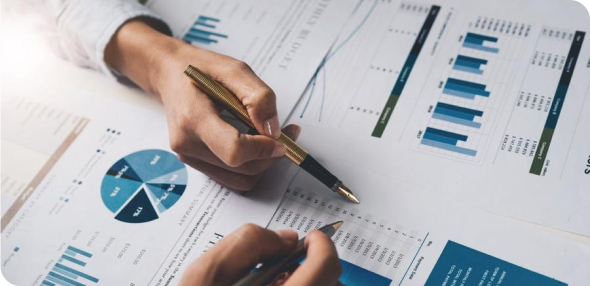
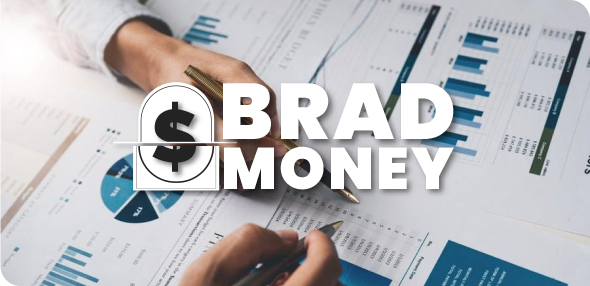
Screen registrer, styles, checkbox and routes

Changed region(s): [[0.2136, 0.2797, 0.7932, 0.6993]]

diff --git a/src/app/pages/register/register.component.scss b/src/app/pages/register/register.component.scss
@@ -1,0 +1,155 @@
+@use '../../../scss/variables';
+
+.left-content {
+    display: flex;
+    flex: 1;
+
+    flex-direction: column;
+    padding: 2.5rem;
+    text-align: left;
+    background-color: white;
+
+    h1 {
+        font-weight: 900;
+        font-size: 2.5rem;
+        color: variables.$gray-600;
+        padding-bottom: 15px;
+    }
+
+    p {
+        padding-top: 15px;
+        color: variables.$gray-300;
+    }
+
+    .checkbox {
+        color: variables.$gray-300;
+    }
+
+    .paddTop {
+        padding-top: 2rem;
+    }
+
+    small {
+        font-size: 0.7em;
+        padding-left: 60%;
+        color: variables.$green-600;
+
+    }
+    small :hover, small :focus{
+        color: variables.$red-600;
+    }
+
+    .inputLogin {
+        width: 95%;
+        height: 40px;
+        border-radius: 4px;
+        border: 1px solid variables.$gray-300;
+        outline-color: variables.$gray-600;
+        margin-top: 18px;
+        padding-left: 10px;
+        color: variables.$gray-600;
+
+    }
+
+    input :focus, input :hover {
+        border-color: variables.$gray-300;
+        color: variables.$gray-300;
+    }
+
+    ::placeholder {
+        color: variables.$gray-300
+    }
+
+    .buttonLogin {
+        width: 45%;
+        border-color: variables.$gray-300;
+    }
+
+    .buttonCancel {
+        width: 45%;
+        margin-left: 22px;
+    }
+
+    .mat-mdc-checkbox.mat-accent {
+        --mdc-checkbox-selected-hover-icon-color:#3AB67D;
+        --mdc-checkbox-selected-focus-icon-color: #3AB67D;
+        --mdc-checkbox-selected-icon-color: #3AB67D;
+        --mdc-checkbox-selected-pressed-icon-color: transparent;
+        --mdc-checkbox-unselected-focus-icon-color: #212121;
+        --mdc-checkbox-unselected-hover-icon-color: #212121;
+        --mdc-checkbox-disabled-selected-icon-color: rgba(0, 0, 0, 0.1);
+        --mdc-checkbox-disabled-unselected-icon-color: rgba(0, 0, 0, 0.1);
+        --mdc-checkbox-unselected-icon-color: rgba(0, 0, 0, 0.1);
+        --mdc-checkbox-unselected-pressed-icon-color: rgba(0, 0, 0, 0.1);
+    }
+
+
+      
+}
+
+.right-content {
+    display: flex;
+    width: 50%;
+    background-image: url(../../../assets/images/background-login.png);
+    background-size: cover;
+    height: 100%;
+
+    h2 {
+        font-weight: 400;
+        font-size: 1.3rem;
+    }
+
+    #itens{
+        align-items: center;
+        text-align: left;
+        color: white;
+        padding: 40% 30%;
+    }
+
+    img {
+        width: 20px;
+    }
+
+    p {
+        padding-top: 20px;
+    }
+
+    span {
+        font-weight: 800;
+    }
+    div .align {
+        display: flex;
+        align-items: center;
+        padding-top: 20px;
+    }
+}
+
+.backGround {
+    height: calc(100% - 240px); 
+
+    &::before {
+        content: '';
+        position: absolute;
+        min-height: 100%;
+        width: 100%;
+        top: 0;
+        background-image: url("../../../assets/images/background.png");
+        z-index: -1;
+    }
+}
+
+.card {
+    display: flex;
+    width: 60%;
+    max-width: 800px;
+    height: 560px;
+    margin: 150px auto 0;
+    align-items: center;
+    text-align: center;
+    position: relative;
+    background-color: white;
+    border-radius: 20px;
+    box-shadow: 5px 5px 40px rgba(172, 176, 202, 0.6);
+    justify-content: space-between;
+    overflow: hidden;
+}

diff --git a/src/app/pages/register/register.component.html b/src/app/pages/register/register.component.html
@@ -1,8 +1,40 @@
-<form (submit)="teste($event)">
-    <label for="name">Nome</label>
-    <input type="text" id="name">
+<app-header></app-header>
+<section class="backGround">
+    <div class="card">
+        <div class="left-content">
+            <h1>REGISTRO</h1>
+            <p>Registre o seu usuário</p>
+            <form>
+                <input class="inputLogin" type="text" placeholder="Usuário" required>
+                <input class="inputLogin" type="password" placeholder="Senha" required>
+                <input class="inputLogin" type="password" placeholder="Confirme sua senha" required>
+                <input class="inputLogin" type="text" placeholder="CPF" required>
+                <br>
+                   <div class="align"><mat-checkbox [(ngModel)]="checked">Eu aceito os termos de uso</mat-checkbox></div>
+            </form>
+            <div class="main-content-buttons">
+                <br>
+                <a [routerLink]="['/login']"><button class="button button-green buttonLogin">REGISTRAR</button></a>
+                <a [routerLink]="['']"><button class="button button-gray buttonCancel">CANCELAR</button></a>
+            </div>
 
-    <label for="email">Email</label>
-    <input type="email" id="name">
-    <button>Enviar</button>
-</form>
+
+        </div>
+        <div class="right-content">
+            <div id="itens">
+                <h2>BENEFÍCIOS DO <br>
+                    <p><span>BRADMONEY</span></p>
+                </h2>
+                <br>
+                <div class="align"><img src="../../../assets/icons/checkmark.svg" alt="Checkmark icon"><span>&nbsp;
+                        Intuítivo</span></div>
+                <div class="align"><img src="../../../assets/icons/checkmark.svg" alt="Checkmark icon"><span>&nbsp;
+                        Confiável</span></div>
+                <div class="align"><img src="../../../assets/icons/checkmark.svg" alt="Checkmark icon"><span>&nbsp;
+                        Completo</span></div>
+                <div class="align"><img src="../../../assets/icons/checkmark.svg" alt="Checkmark icon"><span>&nbsp;
+                        Gratuíto</span></div>
+            </div>
+        </div>
+    </div>
+</section>

diff --git a/src/app/pages/new-password/new-password.component.html b/src/app/pages/new-password/new-password.component.html
@@ -6,13 +6,13 @@
             <p>crie uma nova senha de acesso</p>
 
             <form class="paddTop">
-                <input class="inputLogin" type="text" placeholder="Senha" required>
-                <input class="inputLogin" type="text" placeholder="Confirme sua senha" required>
+                <div class="align"><input class="input" type="text" placeholder="Senha" required><img src="../../../assets/icons/checkmark-full-green.svg" alt="Checkmark icon"></div>
+                <div class="align"><input class="input" type="text" placeholder="Confirme sua senha" required><img src="../../../assets/icons/checkmark-full-red.svg" alt="Checkmark icon"></div>
             </form>
             <br>
             <div class="main-content-buttons paddTop">
-                <button class="button button-green buttonLogin">Cadastre</button>
-                <button class="button button-gray buttonCancel">Cancelar</button>
+                <a  [routerLink]="['/login']"><button class="button button-green buttonLogin">CADASTRE</button></a>
+                <a [routerLink]="['']"><button class="button button-gray buttonCancel">CANCELAR</button></a>
             </div>
 
         </div>

diff --git a/src/app/app.module.ts b/src/app/app.module.ts
@@ -10,7 +10,9 @@ import { HomeComponent } from './pages/home/home.component';
 import { LoginComponent } from './pages/login/login.component';
 import { RegisterComponent } from './pages/register/register.component';
 
-import {MatCardModule} from '@angular/material/card';
+import { MatCardModule } from '@angular/material/card';
+import { FormsModule } from '@angular/forms'; 
+import { MatCheckboxModule } from '@angular/material/checkbox';
 import { SharedModule } from './shared/shared.module';
 import { FeaturesModule } from './features/features.module';
 import { RecoveryComponent } from './pages/recovery/recovery.component';
@@ -33,7 +35,9 @@ import { NewPasswordComponent } from './pages/new-password/new-password.componen
     SharedModule,
     FeaturesModule,
     BrowserAnimationsModule,
-    MatCardModule
+    MatCardModule,
+    MatCheckboxModule,
+    FormsModule
   ],
   providers: [],
   bootstrap: [AppComponent]

diff --git a/src/app/app-routing.module.ts b/src/app/app-routing.module.ts
@@ -5,14 +5,14 @@ import { LoginComponent } from './pages/login/login.component';
 import { RegisterComponent } from './pages/register/register.component';
 import { RecoveryComponent } from './pages/recovery/recovery.component';
 import { NewPasswordComponent } from './pages/new-password/new-password.component';
-import {DashboardHomeComponent} from './features/dashboard/pages/dashboard-home/dashboard-home.component'
+import { DashboardHomeComponent } from './features/dashboard/pages/dashboard-home/dashboard-home.component'
 
 const routes: Routes = [
   {path: '', component: HomeComponent},
   {path: 'login', component: LoginComponent},
   {path: 'recovery', component: RecoveryComponent},
   {path: 'register', component: RegisterComponent},
-  {path: 'newPassword', component: NewPasswordComponent},
+  {path: 'new-password', component: NewPasswordComponent},
   {path: 'dashboard', component: DashboardHomeComponent}
   
 ];

diff --git a/src/app/pages/new-password/new-password.component.scss b/src/app/pages/new-password/new-password.component.scss
@@ -10,7 +10,7 @@
 
     h1 {
         font-weight: 900;
-        font-size: 2rem;
+        font-size: 2.4rem;
         color: variables.$gray-600;
         padding-top: 0.6rem;
     }
@@ -24,8 +24,22 @@
         padding-top: 2rem;
     }
 
-    .inputLogin {
-        width: 65%;
+    .align {
+        display: flex;
+        align-items: center;
+        text-align: center;
+        margin-left: 15%;
+    }
+
+    img {
+        width: 20px;
+        margin-top: 20px;
+        margin-left: -30px;
+        z-index: 99;
+    }
+
+    .input {
+        width: 80%;
         height: 40px;
         border-radius: 4px;
         border: 1px solid variables.$gray-300;
@@ -46,13 +60,15 @@
 
     .buttonLogin {
         width: 30%;
-        border-color: variables.$gray-300;
+
     }
 
     .buttonCancel {
         width: 30%;
         margin-left: 22px;
     }
+
+
 }
 
 .backGround {

diff --git a/src/app/pages/login/login.component.html b/src/app/pages/login/login.component.html
@@ -11,10 +11,8 @@
                 <p class="padd"><small><a [routerLink]="['../recovery']">Esqueceu sua senha?</a></small></p>
             </form>
             <div class="main-content-buttons paddTop">
-                <a [routerLink]="['/dashboard']">
-                    <button class="button button-green buttonLogin">Login</button>
-                </a>
-                <button class="button button-gray buttonCancel">Cadastrar</button>
+                <a [routerLink]="['/dashboard']"><button class="button button-green buttonLogin">LOGIN</button></a>
+                <a [routerLink]="['/register']"><button class="button button-gray buttonCancel">CADASTRAR</button></a>
             </div>
 
         </div>

diff --git a/src/app/pages/recovery/recovery.component.html b/src/app/pages/recovery/recovery.component.html
@@ -11,8 +11,8 @@
             </form>
             <br>
             <div class="main-content-buttons paddTop">
-                <button class="button button-green buttonLogin" [routerLink]="['newPassword']">Nova senha</button>
-                <button class="button button-gray buttonCancel" [routerLink]="['']">Cancelar</button>
+                <a [routerLink]="['/new-password']"><button class="button button-green buttonLogin">NOVA SENHA</button></a>
+                <button class="button button-gray buttonCancel" [routerLink]="['']">CANCELAR</button>
             </div>
 
         </div>

diff --git a/src/styles.scss b/src/styles.scss
@@ -43,3 +43,19 @@ button {
 .button-gray {
   background-color: variables.$gray-600;
 }
+
+.mat-mdc-checkbox.mat-accent .mdc-checkbox--selected~.mdc-checkbox__ripple {
+  background: variables.$green-600!important; 
+   
+}
+.mat-checkbox-checked.mat-accent .mat-checkbox-background {
+  background-color: variables.$green-600!important; 
+}
+
+.mdc-checkbox--selected{
+  background-color:variables.$green-600!important; 
+}
+
+.mat-mdc-checkbox .mdc-form-field {
+  color:variables.$gray-300;
+}

diff --git a/src/index.html b/src/index.html
@@ -11,6 +11,7 @@
   <link rel="icon" type="image/x-icon" href="favicon.ico">
   <link href="https://fonts.googleapis.com/css2?family=Poppins:wght@100;400;500;600;700;900&display=swap" rel="stylesheet">
   <link href="https://fonts.googleapis.com/icon?family=Material+Icons" rel="stylesheet">
+  <link href="https://fonts.googleapis.com/css2?family=Roboto:wght@300;400;500&display=swap" rel="stylesheet">
 </head>
 <body>
   <app-root></app-root>

diff --git a/src/app/features/dashboard/dashboard.component.html b/src/app/features/dashboard/dashboard.component.html
@@ -1,7 +1,7 @@
 <div class="main-container">
     <div class="dashboard-menu">
         <div class="dashboard-title">
-            <h1>LOGO</h1>
+            <img src="../../../../assets/images/BradMoney-logo.png">
         </div>
         <div class="dashboard-options">
             <div class="dashboard-user-content">

diff --git a/src/app/core/components/header/header.component.html b/src/app/core/components/header/header.component.html
@@ -1,5 +1,5 @@
 <header class="container">
-  <a [routerLink]="['']"><h1>Logo</h1></a>
+  <a [routerLink]="['']"><img src="../../../../assets/images/BradMoney-logo.png"></a>
   <nav>
     <ul>
       <li><a [routerLink]="['']">Home</a></li>
